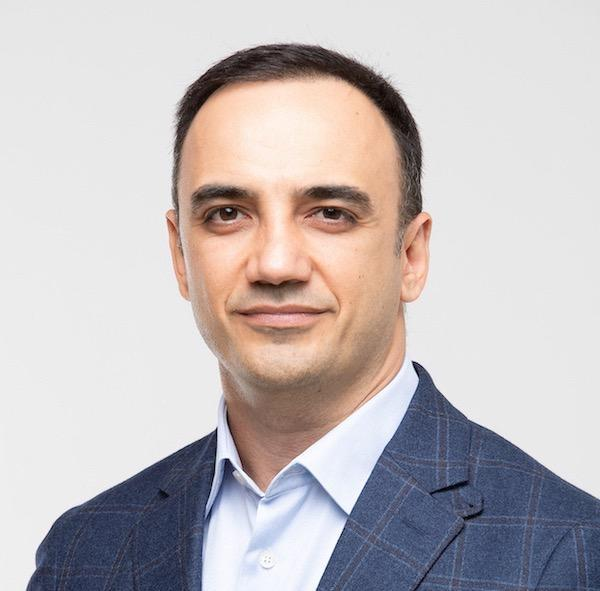
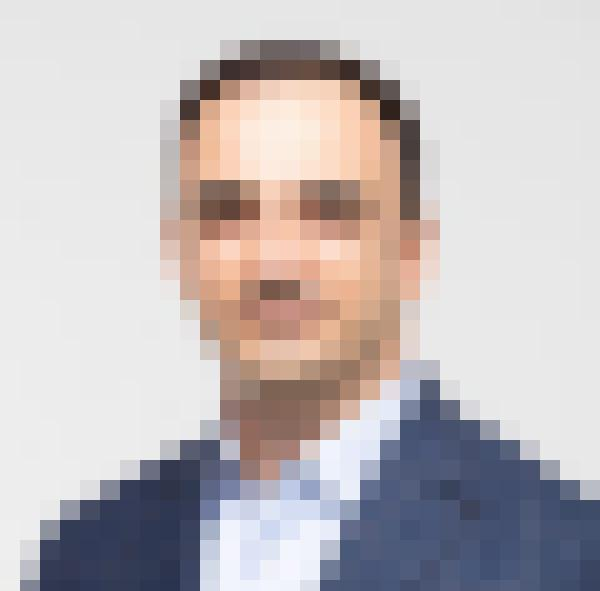
ready

diff --git a/README.md b/README.md
@@ -41,7 +41,7 @@ If you do not provide arguments, the program will prompt you to input the follow
 ## Example of Running the Program
 
 ```java
-java ImageProcessor image.jpg 10 M
+java ImageProcessor image.jpg 20 M
 ```
 
 This will process ```image.jpg``` using multi-threaded mode with a square size of 10 pixels. Result will be saved as ```result.jpg``` file in the same folder.
